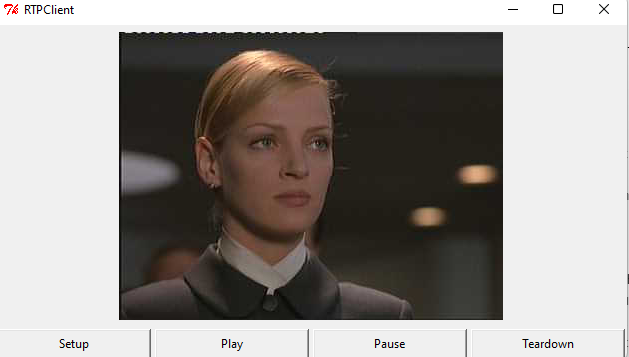
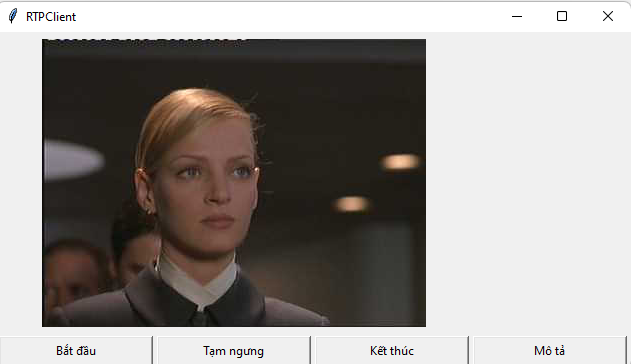
done

diff --git a/Students (distribute to Students)/Students/Client.py b/Students (distribute to Students)/Students/Client.py
@@ -31,7 +31,7 @@ class Client:
     TOTALSIZE = 0
     PASTSTOP = 0
     TIMEEND = 0
-    TIMESTART = 0
+    TIMESTART = time.time()
 
     # Initiation..
     def __init__(self, master, serveraddr, serverport, rtpport, filename):
@@ -48,16 +48,18 @@ class Client:
         self.teardownAcked = 0
         self.connectToServer()
         self.frameNumber = 0
-        self.TIMESTART = time.time()
+        if self.state == self.INIT:
+            self.sendRtspRequest(self.SETUP)
+
     # THIS GUI IS JUST FOR REFERENCE ONLY, STUDENTS HAVE TO CREATE THEIR OWN GUI
 
     def createWidgets(self):
         """Build GUI."""
-        # Create Setup button
-        self.setup = Button(self.master, width=20, padx=3, pady=3)
-        self.setup["text"] = "Thiết lập"
-        self.setup["command"] = self.setupMovie
-        self.setup.grid(row=1, column=0, padx=2, pady=2)
+        # # Create Setup button
+        # self.setup = Button(self.master, width=20, padx=3, pady=3)
+        # self.setup["text"] = "Thiết lập"
+        # self.setup["command"] = self.setupMovie
+        # self.setup.grid(row=1, column=0, padx=2, pady=2)
 
         # Create Play button
         self.start = Button(self.master, width=20, padx=3, pady=3)
@@ -74,9 +76,9 @@ class Client:
         # Create Teardown button
         self.teardown = Button(self.master, width=20, padx=3, pady=3)
         self.teardown["text"] = "Kết thúc"
-        self.teardown["command"] = self.exitClient
+        self.teardown["command"] = self.stopMovie
         self.teardown.grid(row=1, column=3, padx=2, pady=2)
-
+        # create describe button
         self.desc = Button(self.master, width=20, padx=3, pady=3)
         self.desc["text"] = "Mô tả"
         self.desc["command"] = self.descHandler
@@ -94,8 +96,14 @@ class Client:
             # Gray button
             # self.setup["state"] = "disabled"
 
+    def stopMovie(self):
+        self.pauseMovie()
+        if tkinter.messagebox.askokcancel("Quit", "Are you sure wannt to quit"):
+            self.exitClient()
+
     def exitClient(self):
         """Teardown button handler."""
+
         if self.state != self.INIT:
             self.sendRtspRequest(self.TEARDOWN)
         # Close window
@@ -132,7 +140,7 @@ class Client:
             self.sendRtspRequest(self.PLAY)
 
     def descHandler(self):
-        print("desc")
+        print("Describe Request Sent!!!")
         self.sendRtspRequest(self.DESCRIBE)
 
     def listenRtp(self):

diff --git a/Students (distribute to Students)/Students/ServerWorker.py b/Students (distribute to Students)/Students/ServerWorker.py
@@ -144,7 +144,7 @@ class ServerWorker:
                     address = self.clientInfo['rtspSocket'][1][0]
                     port = int(self.clientInfo['rtpPort'])
                     prb = math.floor(random.uniform(1, 100))
-                    if (prb > 5):
+                    if (prb > 2):
                         self.clientInfo['rtpSocket'].sendto(
                             self.makeRtp(data, frameNumber), (address, port))
                 except:
